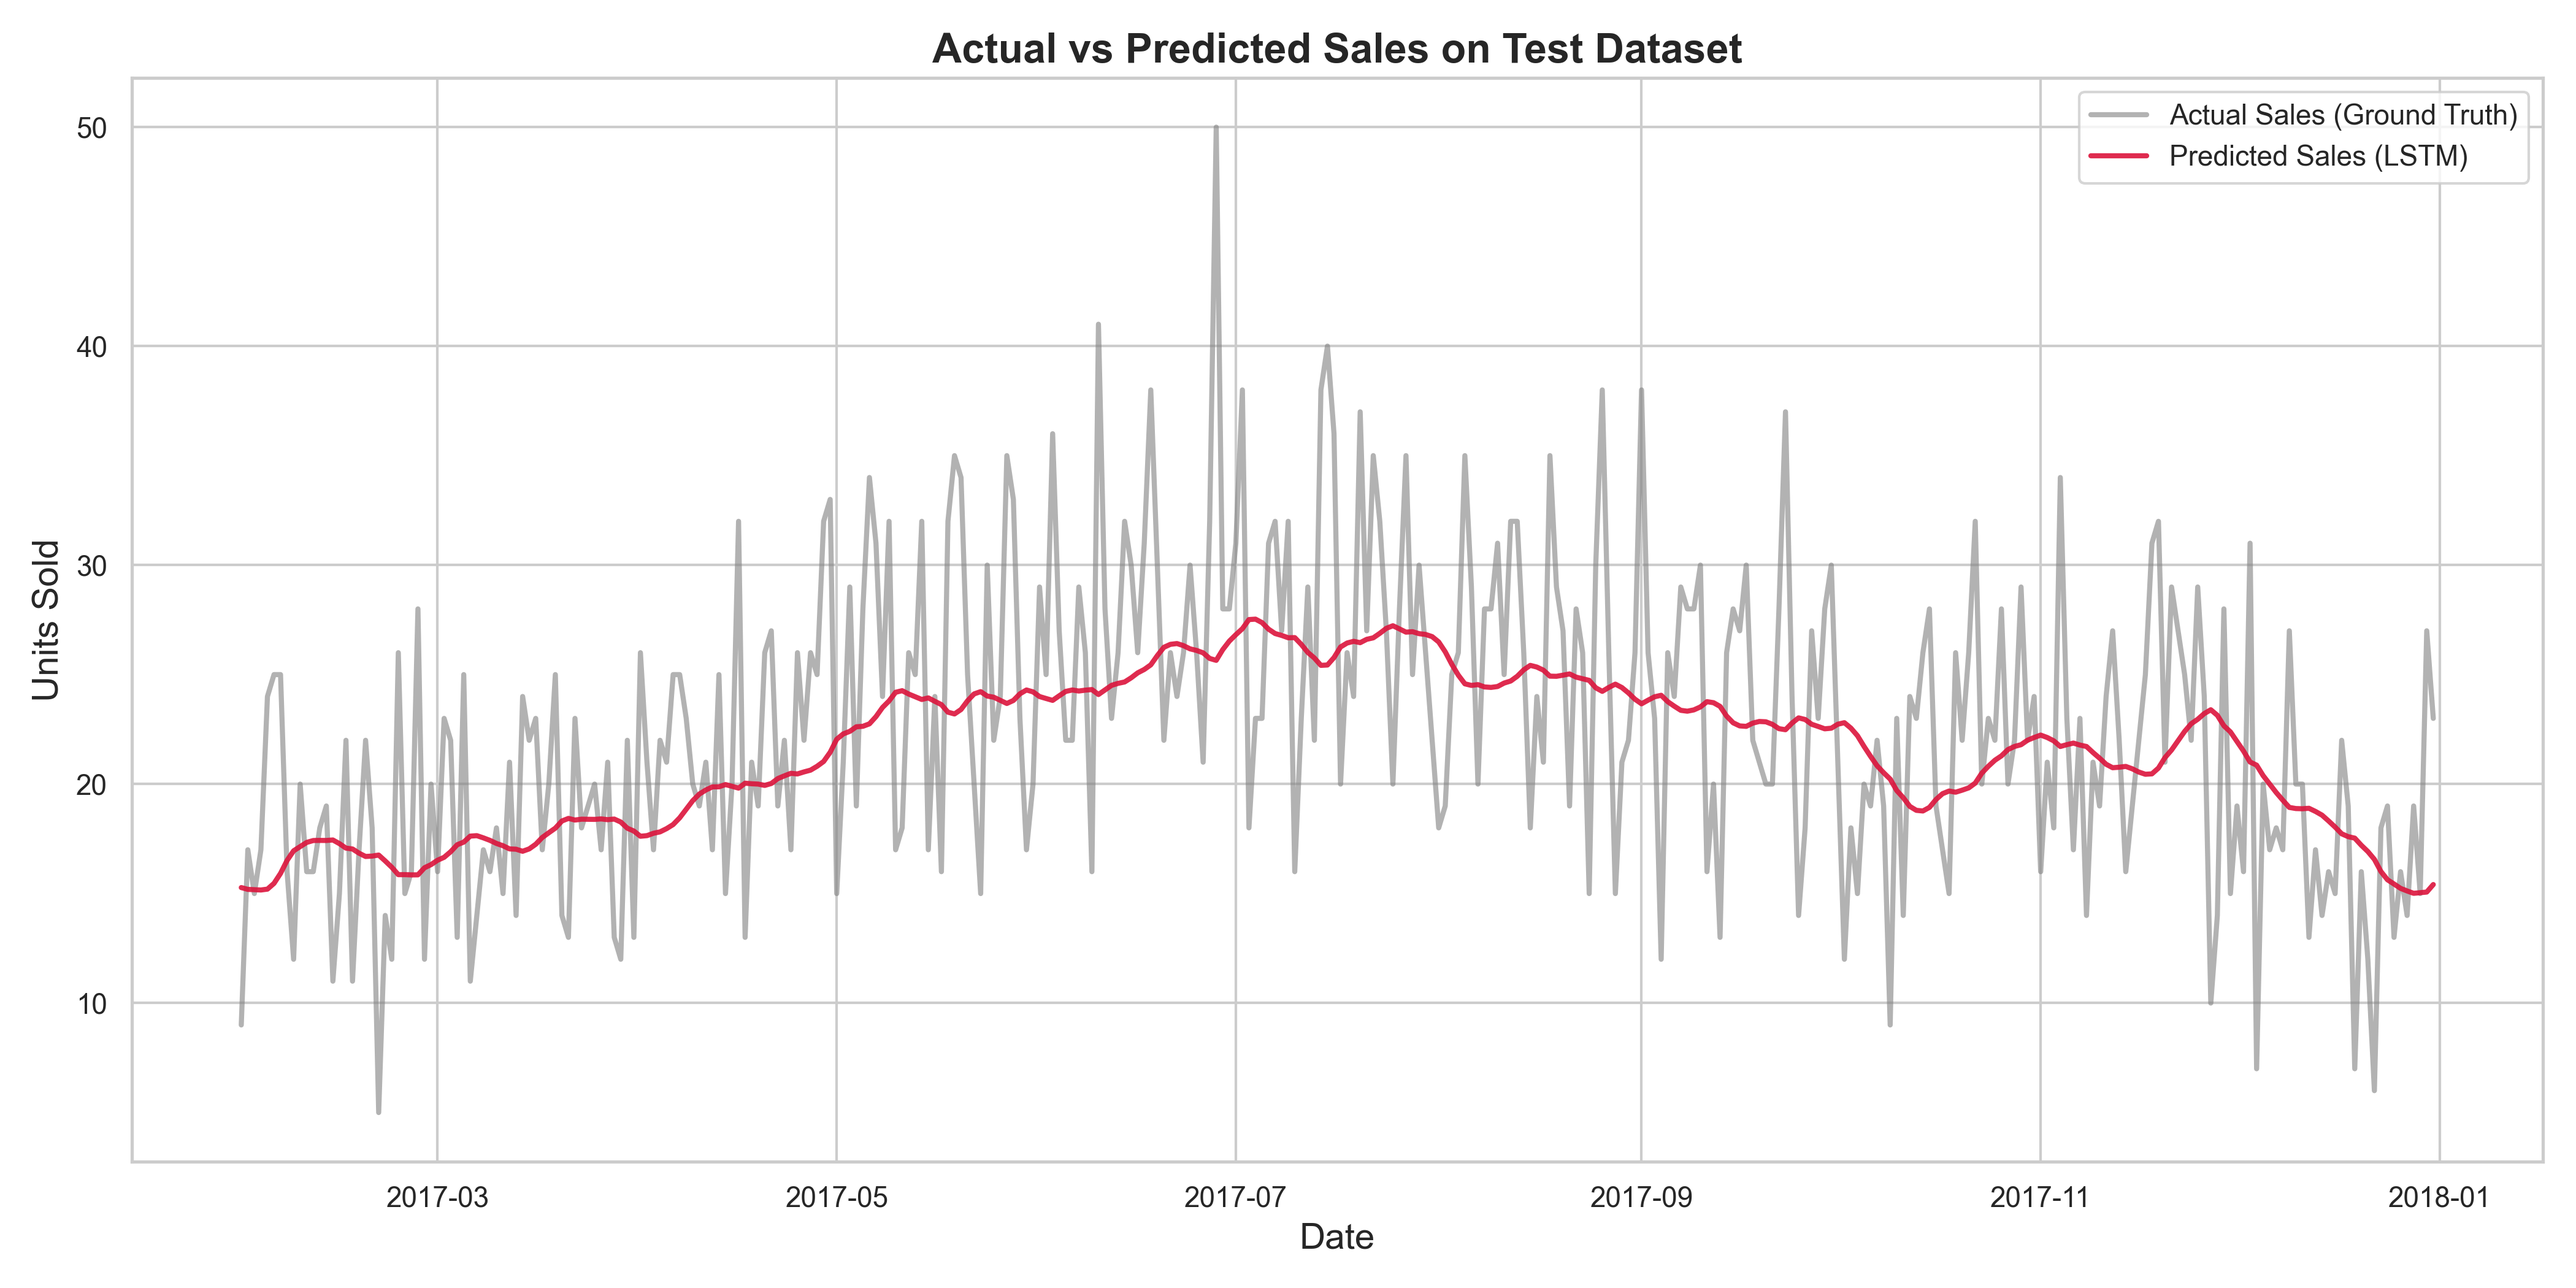
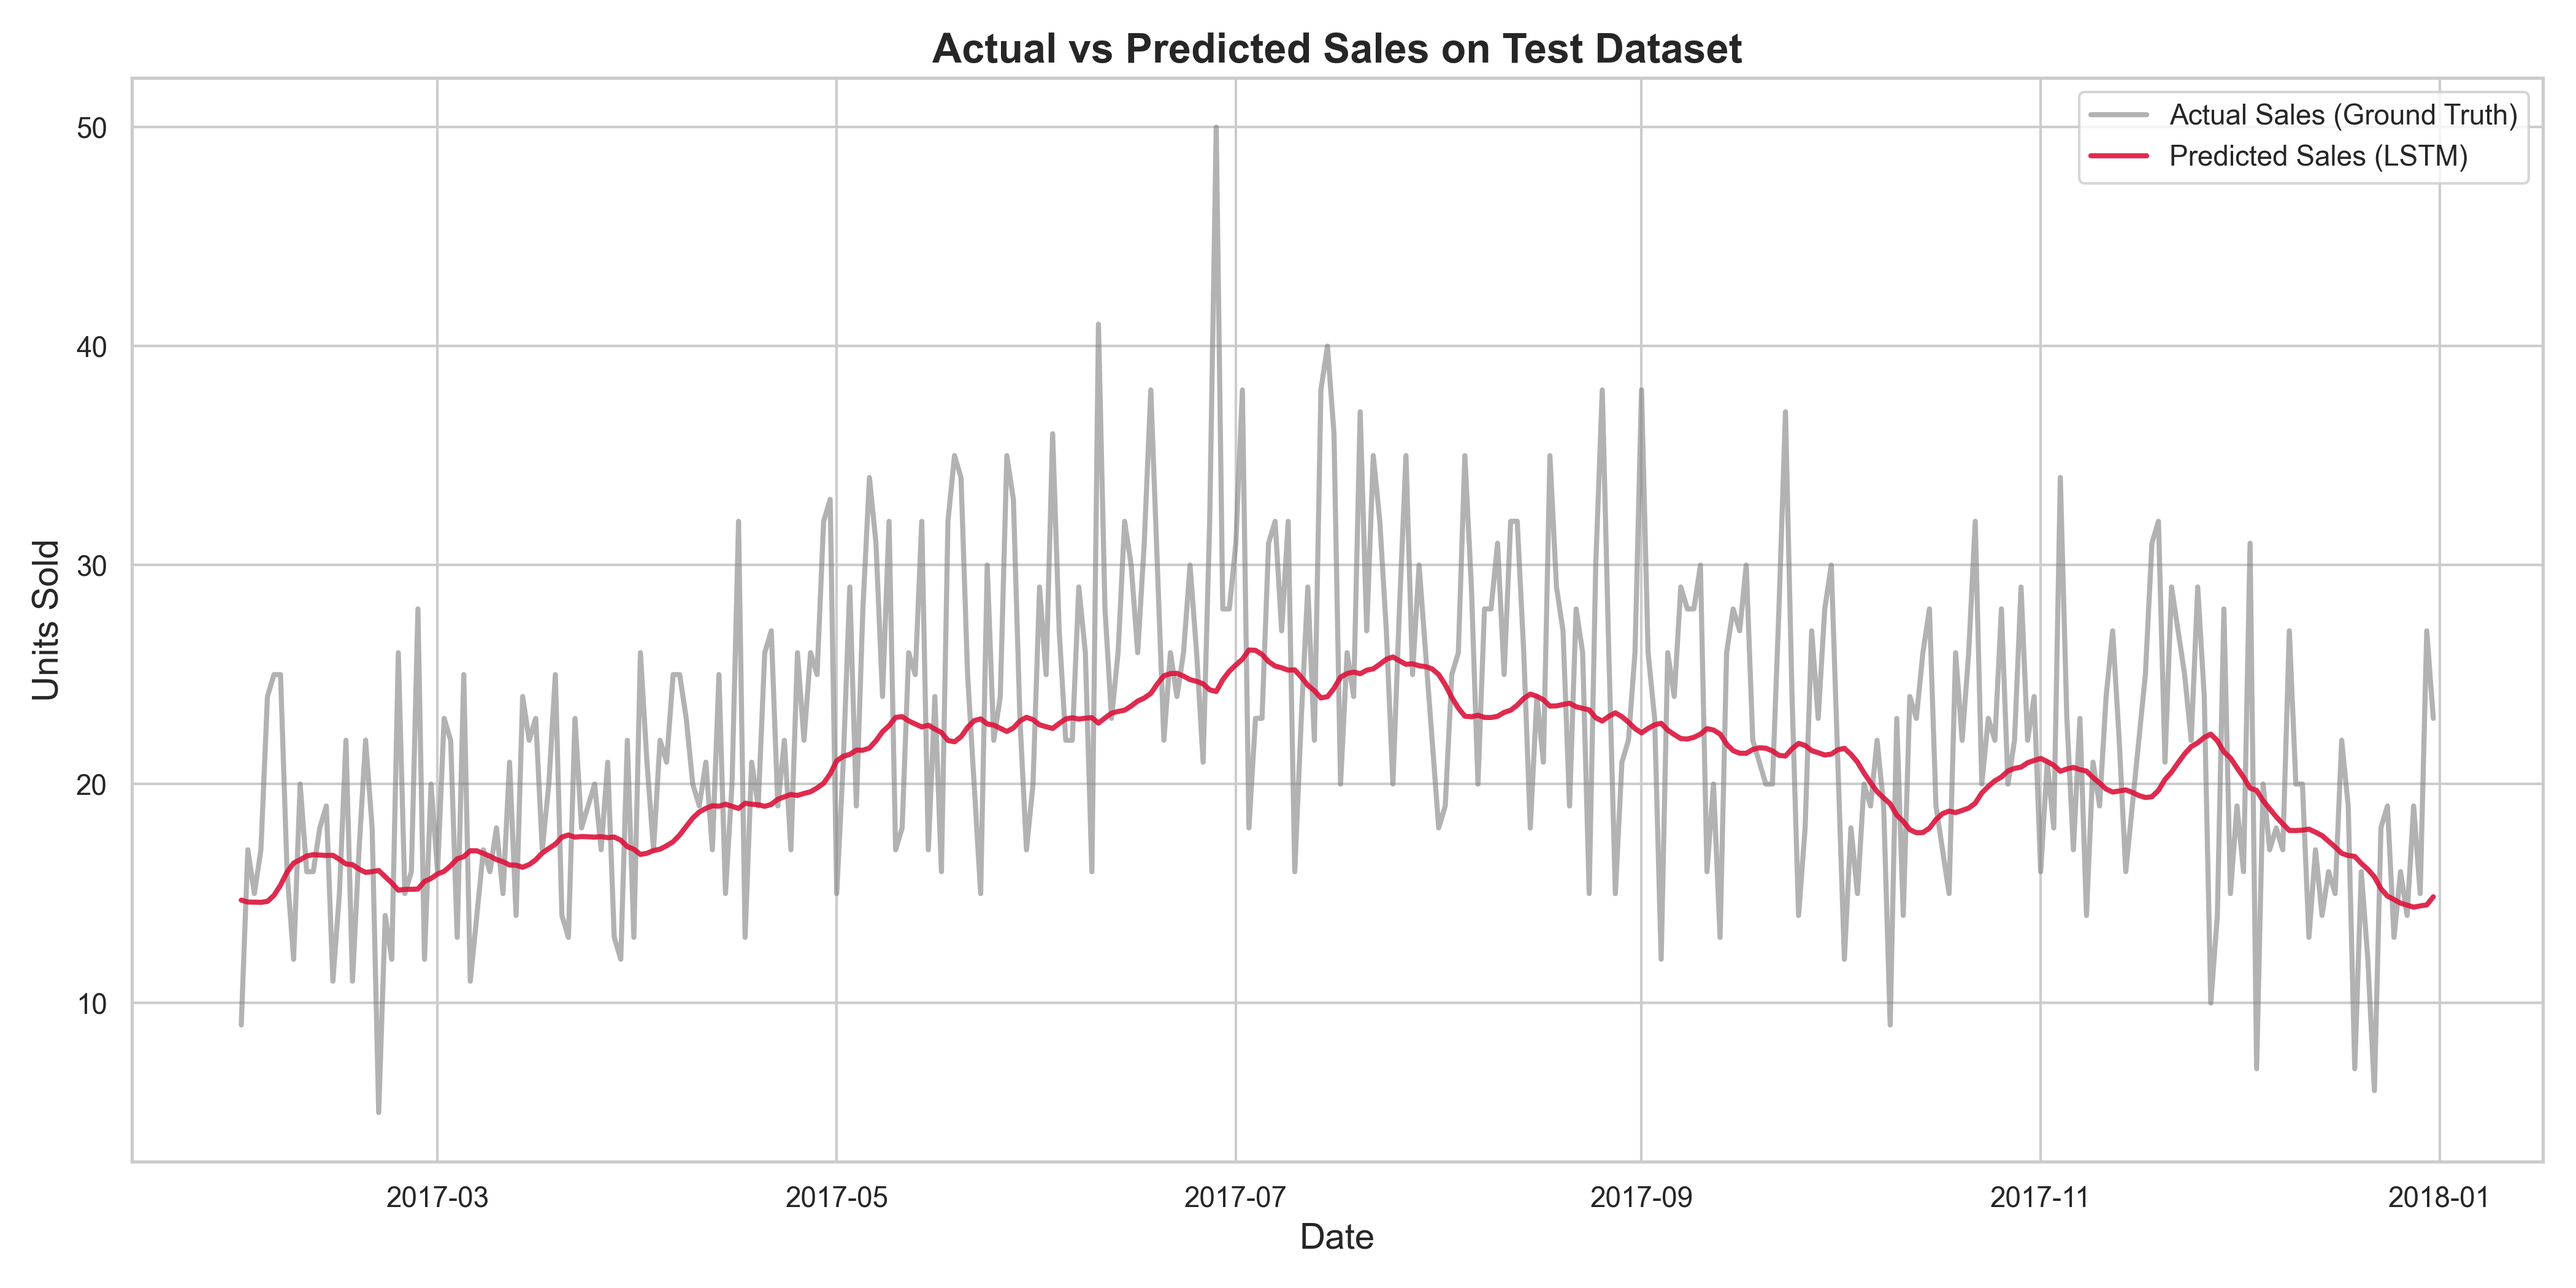
Add enterprise dashboard.py and dependencies

diff --git a/export_powerbi_data.py b/export_powerbi_data.py
@@ -1,0 +1,133 @@
+import os
+import pandas as pd
+import numpy as np
+from sklearn.preprocessing import MinMaxScaler
+from sklearn.ensemble import GradientBoostingRegressor
+from sklearn.metrics import mean_absolute_error, mean_squared_error
+import math
+
+print("Starting Data Preparation for Power BI...")
+
+# 1. Load Data (STRICT: No dummy data)
+script_dir = os.path.dirname(os.path.abspath(__file__))
+data_path = os.path.join(script_dir, "data", "train.csv")
+
+if not os.path.exists(data_path):
+    # Fallback to local 'data' if script_dir logic fails (unlikely)
+    data_path = "data/train.csv"
+
+if not os.path.exists(data_path):
+    raise FileNotFoundError(f"CRITICAL ERROR: {data_path} not found. STOPPING.")
+
+df = pd.read_csv(data_path)
+df['date'] = pd.to_datetime(df['date'])
+df = df.sort_values('date')
+print(f"Dataset Loaded: {df.shape[0]:,} rows | Columns: {list(df.columns)}")
+
+# 2. Filter: Store 1, Item 1
+store_id, item_id = 1, 1
+df_f = df[(df['store'] == store_id) & (df['item'] == item_id)].copy()
+df_f.set_index('date', inplace=True)
+print(f"Filtered shape (Store {store_id}, Item {item_id}): {df_f.shape}")
+
+# 3. Feature Engineering (sliding window approach)
+lookback = 30
+data = df_f['sales'].values.astype(float)
+
+X, Y = [], []
+for i in range(lookback, len(data)):
+    # Features: last 30 days of sales + day of week + month
+    window = data[i-lookback:i].tolist()
+    dow = df_f.index[i].dayofweek
+    month = df_f.index[i].month
+    X.append(window + [dow, month])
+    Y.append(data[i])
+
+X, Y = np.array(X), np.array(Y)
+
+# 4. Train/Test Split
+train_size = int(len(X) * 0.8)
+X_train, X_test = X[:train_size], X[train_size:]
+y_train, y_test = Y[:train_size], Y[train_size:]
+
+print(f"Training on {len(X_train)} samples, Testing on {len(X_test)} samples...")
+
+# 5. Train GradientBoosting Model (No GPU, 100% stable on Mac)
+model = GradientBoostingRegressor(
+    n_estimators=300,
+    learning_rate=0.05,
+    max_depth=5,
+    random_state=42
+)
+model.fit(X_train, y_train)
+print("Model training complete!")
+
+# 6. Evaluate
+test_pred = model.predict(X_test)
+mae = mean_absolute_error(y_test, test_pred)
+rmse = math.sqrt(mean_squared_error(y_test, test_pred))
+print(f"\n--- Model Metrics ---")
+print(f"MAE:  {mae:.2f}")
+print(f"RMSE: {rmse:.2f}")
+
+# 7. Future Forecast: Next 14 Days
+print("Forecasting next 14 days...")
+future_days = 14
+future_preds = []
+# Start with the last 30 days of real data
+rolling_window = data[-lookback:].tolist()
+last_date = df_f.index[-1]
+future_dates = pd.date_range(start=last_date + pd.Timedelta(days=1), periods=future_days)
+
+for future_date in future_dates:
+    dow = future_date.dayofweek
+    month = future_date.month
+    features = rolling_window[-lookback:] + [dow, month]
+    pred = model.predict([features])[0]
+    future_preds.append(round(pred, 0))
+    rolling_window.append(pred)  # Feed prediction back for next step
+
+# 8. Build Power BI Export DataFrame
+# Historical (before test period)
+test_start_idx = train_size + lookback
+hist_dates = df_f.index[:test_start_idx]
+df_hist = pd.DataFrame({
+    'date': hist_dates,
+    'actual_sales': df_f['sales'].iloc[:test_start_idx].values,
+    'predicted_sales': np.nan,
+    'forecast_sales': np.nan,
+    'store': store_id, 'item': item_id,
+    'data_category': 'Historical'
+})
+
+# Testing Phase
+test_dates = df_f.index[test_start_idx:]
+df_test = pd.DataFrame({
+    'date': test_dates,
+    'actual_sales': y_test,
+    'predicted_sales': test_pred.round(0),
+    'forecast_sales': np.nan,
+    'store': store_id, 'item': item_id,
+    'data_category': 'Testing (Model Evaluation)'
+})
+
+# Future Forecast
+df_future = pd.DataFrame({
+    'date': future_dates,
+    'actual_sales': np.nan,
+    'predicted_sales': np.nan,
+    'forecast_sales': future_preds,
+    'store': store_id, 'item': item_id,
+    'data_category': 'Future Forecast'
+})
+
+# Combine & Export
+final_df = pd.concat([df_hist, df_test, df_future], ignore_index=True)
+export_dir = os.path.join(script_dir, "data")
+os.makedirs(export_dir, exist_ok=True)
+export_path = os.path.join(export_dir, "powerbi_export.csv")
+final_df.to_csv(export_path, index=False)
+
+print(f"\n✅ SUCCESS: {export_path} exported cleanly!")
+print(f"   Total rows in export: {len(final_df):,}")
+print(f"   MAE: {mae:.2f} | RMSE: {rmse:.2f}")

diff --git a/retail_demand_forecasting.py b/retail_demand_forecasting.py
@@ -23,10 +23,17 @@ warnings.filterwarnings('ignore')
 import pandas as pd
 import os
 
-if not os.path.exists("data/train.csv"):
-    raise FileNotFoundError("CRITICAL ERROR: data/train.csv not found. Please ensure the actual dataset is placed in the 'data' folder. STOPPING execution.")
+script_dir = os.path.dirname(os.path.abspath(__file__))
+data_path = os.path.join(script_dir, "data", "train.csv")
 
-df = pd.read_csv("data/train.csv")
+if not os.path.exists(data_path):
+    # Fallback to local 'data'
+    data_path = "data/train.csv"
+
+if not os.path.exists(data_path):
+    raise FileNotFoundError(f"CRITICAL ERROR: {data_path} not found. Please ensure the actual dataset is placed in the 'data' folder. STOPPING execution.")
+
+df = pd.read_csv(data_path)
 print("Dataset Loaded Successfully")
 print(df.head())
 

diff --git a/multivariate_demand_forecasting.py b/multivariate_demand_forecasting.py
@@ -22,10 +22,17 @@ warnings.filterwarnings('ignore')
 # Load data
 import os
 
-if not os.path.exists("data/train.csv"):
-    raise FileNotFoundError("CRITICAL ERROR: data/train.csv not found. Please ensure the actual dataset is placed in the 'data' folder. STOPPING execution.")
+script_dir = os.path.dirname(os.path.abspath(__file__))
+data_path = os.path.join(script_dir, "data", "train.csv")
 
-df = pd.read_csv("data/train.csv")
+if not os.path.exists(data_path):
+    # Fallback to local 'data'
+    data_path = "data/train.csv"
+
+if not os.path.exists(data_path):
+    raise FileNotFoundError(f"CRITICAL ERROR: {data_path} not found. Please ensure the actual dataset is placed in the 'data' folder. STOPPING execution.")
+
+df = pd.read_csv(data_path)
 print("Dataset Loaded Successfully")
 print(df.head())
 

diff --git a/generate_visualizations.py b/generate_visualizations.py
@@ -13,13 +13,19 @@ warnings.filterwarnings('ignore')
 sns.set_theme(style="whitegrid")
 plt.rcParams.update({'figure.figsize': (14, 7), 'figure.dpi': 300, 'font.size': 12})
 
+script_dir = os.path.dirname(os.path.abspath(__file__))
+
 # 1. Create 'images' folder
-output_dir = "images"
+output_dir = os.path.join(script_dir, "images")
 os.makedirs(output_dir, exist_ok=True)
 print(f"Directory '{output_dir}/' is ready.")
 
 # 2. Load and validate data
-data_path = "data/train.csv"
+data_path = os.path.join(script_dir, "data", "train.csv")
+if not os.path.exists(data_path):
+    # Fallback
+    data_path = "data/train.csv"
+
 if not os.path.exists(data_path):
     raise FileNotFoundError(f"CRITICAL ERROR: {data_path} not found. Please provide the real dataset.")
 
